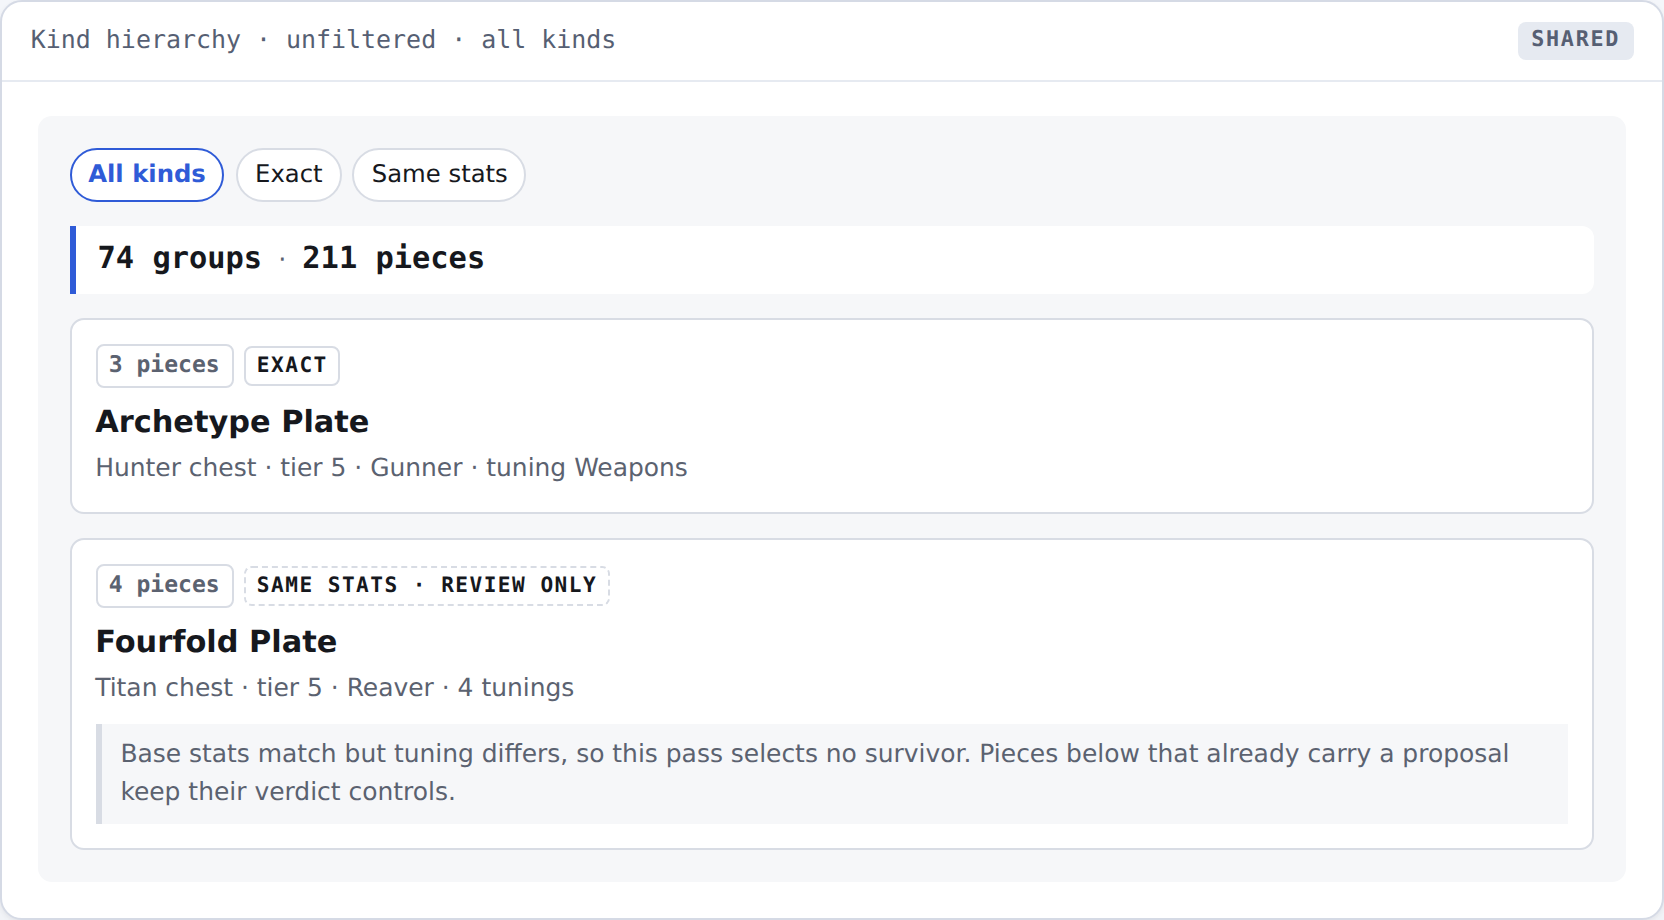
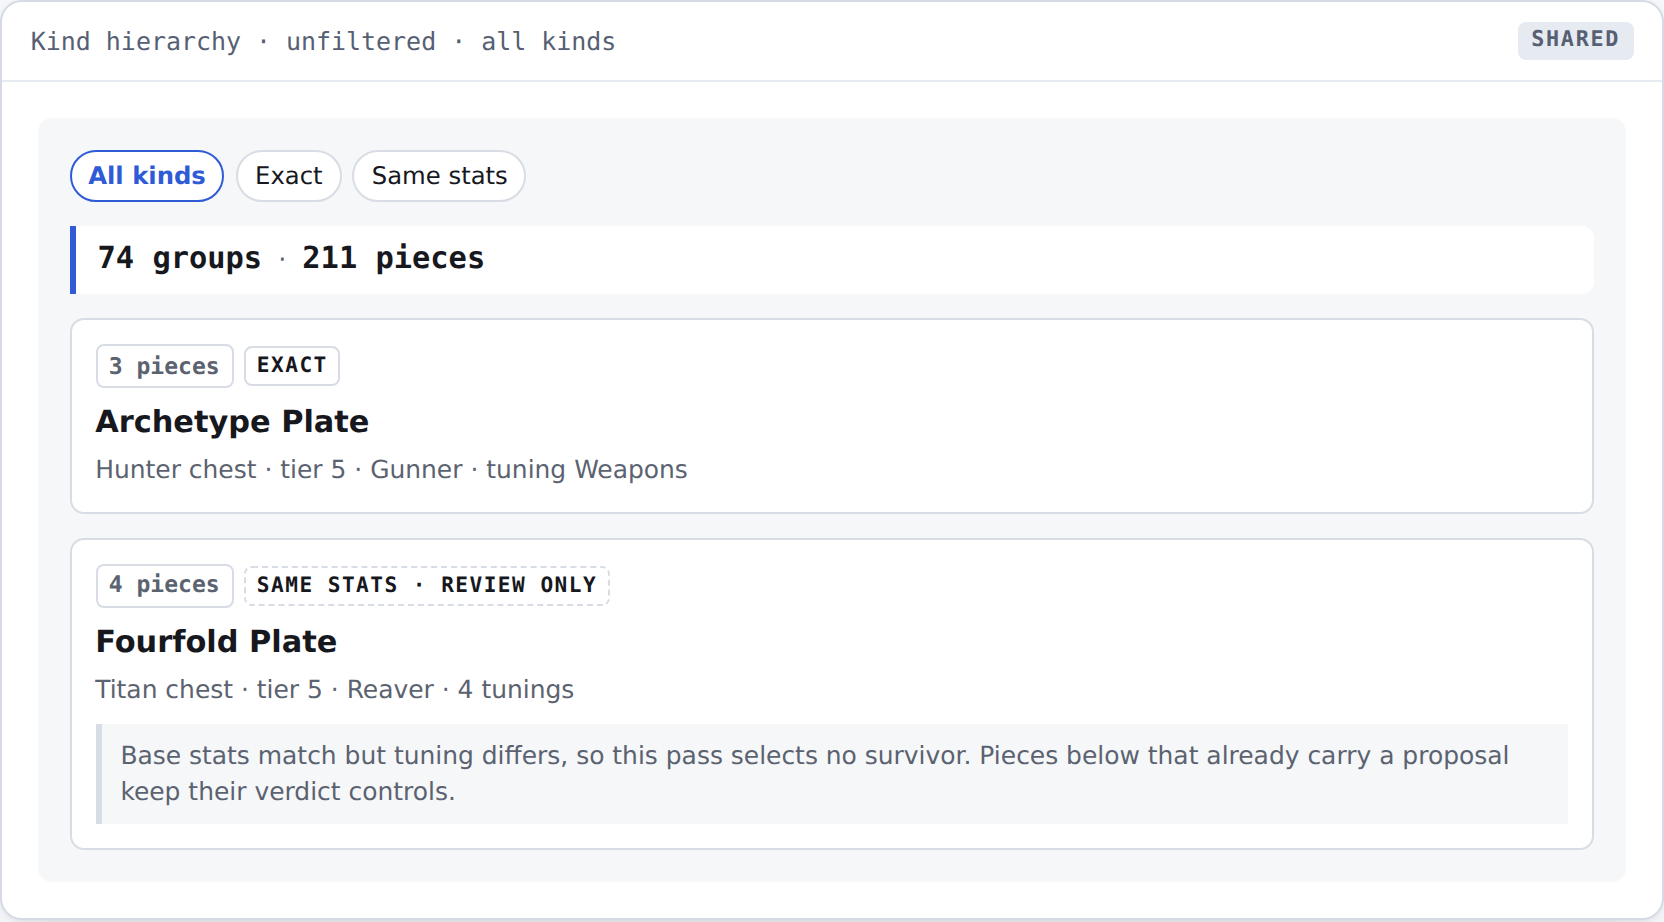
Measure the 390px claim instead of asserting it
The comparison table scored "fits 390px" as a win for Alternative B on
the reasoning that tiles and chips stack, while .vc carried a 30rem
minimum width, so no specimen could render below 480px at all -- the
artifact could not demonstrate its own claim.

Added specimens constrained to exactly 390px and measured them. The
result reverses the row: neither treatment overflows, and A is the more
compact, a 235px block against B's 358px, because stacking B's tile row
costs 178px. The recommendation is unchanged and better supported, since
the hybrid adopts A's line and declines B's expanded tile row.

Alternative B's cost prose also described a specimen that was never
built. Rewritten against what is rendered: the duplication is pairs, not
three places.

diff --git a/docs/evidence/issue-113/count-treatments.html b/docs/evidence/issue-113/count-treatments.html
@@ -136,6 +136,7 @@ section{display:flex;flex-direction:column;gap:1.1rem}
 .vc .scope .of{color:var(--vmuted);font-size:.8rem}
 .vc .pieces{font:600 .72rem/1 ui-monospace,monospace;border:1px solid var(--vline);
   border-radius:4px;padding:.35em .5em;color:var(--vmuted)}
+.vc.narrow{min-width:0;width:390px;max-width:100%}
 .vc .rule-note{font-size:.72rem;color:var(--vmuted);font-style:italic}
 
 /* ---- comparison table ---- */
@@ -264,7 +265,7 @@ a{color:var(--brand)}
   </figure>
 
   <p class="prose"><strong>Why it works.</strong> One place answers every counting question, and it is the last thing read before the list. Both denominators are unfiltered totals, so the reader always knows what they are not seeing. The tile row becomes homogeneous — every remaining tile counts proposals.</p>
-  <p class="prose"><strong>What it costs.</strong> Scroll past the line and scope is gone; on a long list the reader re-scrolls to check. It also puts four numbers in one sentence, which is dense at 390px.</p>
+  <p class="prose"><strong>What it costs.</strong> Scroll past the line and scope is gone; on a long list the reader re-scrolls to check. It also puts four numbers in one sentence, which wraps to three lines at 390px — measured at 61px tall, and the cheaper of the two narrow costs.</p>
 </section>
 
 <!-- ============ B ============ -->
@@ -301,8 +302,8 @@ a{color:var(--brand)}
     </div>
   </figure>
 
-  <p class="prose"><strong>Why it works.</strong> Scope is local, so it survives scrolling — the piece count sits on the group you are actually reading. The chips answer “how many of each kind” without clicking through. Nothing needs re-reading after a scroll.</p>
-  <p class="prose"><strong>What it costs.</strong> The same numbers appear in three places and must agree; every one is a drift risk. Nothing answers “how big is this review” in one glance, and the tile row still asks the reader to notice that two tiles count groups and two count proposals.</p>
+  <p class="prose"><strong>Why it works.</strong> Scope is local, so it survives scrolling — the piece count sits on the group you are actually reading. The chips answer “how many of each kind” without clicking through. Nothing needs re-reading after a scroll. Note the narrow cost, measured below: the tile row stacks rather than overflowing, but stacking is not free — it takes 178px before any group is reached.</p>
+  <p class="prose"><strong>What it costs.</strong> Count information is spread across tiles, filter chips and group headers, and they must agree: <code>12</code> appears in both the <code>Groups</code> tile and the <code>Exact</code> chip, <code>74</code> in both the tile and the <code>All kinds</code> chip. Each pair is a drift risk. Nothing answers “how big is this review” in one glance, and the tile row mixes four different nouns — groups, pieces, proposals, reviewed — at equal weight, which is a milder version of the problem being fixed.</p>
 </section>
 
 <!-- ============ BOTH KINDS ============ -->
@@ -347,6 +348,64 @@ a{color:var(--brand)}
   </figure>
 </section>
 
+<!-- ============ NARROW ============ -->
+<section>
+  <div class="sec-head">
+    <span class="eyebrow">Measured</span>
+    <h2>Both treatments at 390px</h2>
+  </div>
+  <p class="prose">The narrow comparison below is <strong>measured on these specimens</strong>, not reasoned about. Each is constrained to exactly 390px — the width the browser checklist verifies at — and the figures in the comparison table come from rendering them.</p>
+
+  <figure class="spec">
+    <figcaption><span>Alternative A at 390px</span><span class="badge aa">A</span></figcaption>
+    <div class="stage">
+      <div class="vc narrow" id="narrow-a">
+        <div class="chips">
+          <span class="chip" aria-pressed="false">All kinds</span>
+          <span class="chip" aria-pressed="true">Exact</span>
+          <span class="chip" aria-pressed="false">Same stats</span>
+        </div>
+        <div class="scope">
+          <span class="big">12 of 74 groups</span>
+          <span class="of">·</span>
+          <span class="big">38 of 211 pieces</span>
+          <span class="of">— filtered to exact duplicates</span>
+        </div>
+        <div class="grp">
+          <span class="kind">Exact</span>
+          <h4>Archetype Plate</h4>
+          <p class="gsub">3 pieces · Hunter chest · tier 5 · Gunner</p>
+        </div>
+      </div>
+    </div>
+  </figure>
+
+  <figure class="spec">
+    <figcaption><span>Alternative B at 390px</span><span class="badge bb">B</span></figcaption>
+    <div class="stage">
+      <div class="vc narrow" id="narrow-b">
+        <div class="tiles">
+          <div class="tile"><span class="lab">Groups</span><span class="val">74</span><span class="sub">12 shown</span></div>
+          <div class="tile"><span class="lab">Pieces</span><span class="val">211</span><span class="sub">38 shown</span></div>
+          <div class="tile"><span class="lab">Proposals</span><span class="val">394</span><span class="sub">90 junk, 304 review</span></div>
+          <div class="tile"><span class="lab">Reviewed</span><span class="val">9</span><span class="sub">6 approved, 3 vetoed</span></div>
+        </div>
+        <div class="chips">
+          <span class="chip" aria-pressed="false">All kinds · 74 groups</span>
+          <span class="chip" aria-pressed="true">Exact · 12 groups</span>
+        </div>
+        <div class="grp">
+          <div class="chips" style="margin-bottom:.4rem">
+            <span class="pieces">3 pieces</span><span class="kind">Exact</span>
+          </div>
+          <h4>Archetype Plate</h4>
+          <p class="gsub">Hunter chest · tier 5 · Gunner</p>
+        </div>
+      </div>
+    </div>
+  </figure>
+</section>
+
 <!-- ============ COMPARISON ============ -->
 <section>
   <div class="sec-head">
@@ -361,7 +420,7 @@ a{color:var(--brand)}
         <tr><td>Survives scrolling a long list</td><td class="lose">Scope scrolls away</td><td class="win">Piece count is on every group</td></tr>
         <tr><td>Filtered vs unfiltered legible</td><td class="win">Explicit <code>N of M</code>, both nouns</td><td>Chips give per-kind totals; the “shown” sub-caption carries it</td></tr>
         <tr><td>Places the same number is stated</td><td class="win">One</td><td class="lose">Three — drift risk</td></tr>
-        <tr><td>Fits 390px</td><td class="lose">Four numbers in one sentence wraps to 3 lines</td><td class="win">Tiles and chips already stack</td></tr>
+        <tr><td>Fits 390px <em>(measured)</em></td><td class="win">No overflow. Scope line wraps to 3 lines (61px); block totals <strong>235px</strong></td><td class="lose">No overflow, but the tile row stacks to 178px; block totals <strong>358px</strong></td></tr>
         <tr><td>Exact vs same-stat without colour</td><td>Text chip, dashed border</td><td class="win">Text chip, dashed border, plus the review-only banner</td></tr>
         <tr><td>Implies no cleanup decision</td><td>Neutral</td><td class="win">Banner states it explicitly</td></tr>
         <tr><td>Accessible semantics</td><td class="win">One live region to announce on filter change</td><td class="lose">Several regions, or none</td></tr>
@@ -378,7 +437,8 @@ a{color:var(--brand)}
   </div>
   <div class="verdict">
     <h2>A hybrid, weighted toward B</h2>
-    <p>The comparison splits cleanly: <strong>A wins on stating scope once and correctly</strong>, <strong>B wins on keeping it available while scrolling</strong>. They are not mutually exclusive, and the costs are not symmetric — A's weakness is a scroll away, B's weakness is three numbers that must agree forever.</p>
+    <p>The comparison splits cleanly: <strong>A wins on stating scope once and correctly</strong>, <strong>B wins on keeping it available while scrolling</strong>. They are not mutually exclusive, and the costs are not symmetric — A's weakness is a scroll away, B's weakness is pairs of numbers that must agree forever.</p>
+    <p><strong>One correction from measuring.</strong> This page originally scored the 390px row as a win for B, on the reasoning that tiles and chips stack. Measured, neither treatment overflows and <em>A is the more compact</em> — 235px against B's 358px, because stacking B's tile row costs 178px. That does not change the recommendation; it strengthens it, since the hybrid keeps A's line and specifically declines B's expanded tile row.</p>
     <p>So: adopt <strong>A's single scoped line</strong> as the one authoritative statement, and <strong>B's per-group piece count and review-only banner</strong> as local reinforcement that never restates a total. The tile row keeps only proposal-shaped counts, and <code>SHOWN</code> leaves this surface entirely.</p>
   </div>
 

diff --git a/WORKLOG.md b/WORKLOG.md
@@ -50,6 +50,30 @@ surprises the next agent should know about.
   theming, and zero-base-stat suppression. An earlier code-only reading had
   wrongly flagged all four; rendering corrected it.
 
+## 2026-09-03 — #113 third review round: measured the narrow claim
+
+- **A comparison row asserted something the specimens could not show, and the
+  measurement reversed it.** The table scored "fits 390px" as a win for B on the
+  reasoning that tiles and chips stack, while `.vc` carried `min-width:30rem`, so
+  no specimen could render below 480px at all. Added specimens constrained to
+  exactly 390px and measured: neither treatment overflows, and **A is the more
+  compact** — a 235px block against B's 358px, because stacking B's tile row
+  costs 178px. The recommendation is unchanged and better supported, since the
+  hybrid takes A's line and declines B's expanded tile row.
+- Alternative B's "what it costs" prose described a specimen that was never
+  built — "the same numbers appear in three places", "two tiles count groups and
+  two count proposals" — where the specimen has one Groups, one Pieces, one
+  Proposals and one Reviewed tile. Rewritten against what is actually rendered:
+  the real duplication is pairs (`12` in tile and chip, `74` in tile and chip).
+- #119 was internally contradictory: settled item 5 still carried the original
+  conditional-banner rule while item 12 carried the corrected two-part rule.
+  Item 5 now defers to item 12.
+- **Worth knowing:** the recurring failure across three review rounds was not the
+  design, which has not moved. It was claims outrunning evidence — artifacts
+  described but not committed, prose describing a specimen that was not built,
+  and a responsive claim asserted rather than measured. Where a document argues
+  from evidence, every comparison row needs to name whether it was measured.
+
 ## 2026-09-02 — #113 second review round: specimen coherence
 
 - **The Exact-filtered specimens listed a same-stat group.** Both alternatives

diff --git a/docs/duplicate-review-count-design.md b/docs/duplicate-review-count-design.md
@@ -67,7 +67,8 @@ piece count.
 - **Wins on** answering "how big is this review" in one place; one live region
   to announce on filter change; the tile row becomes homogeneous.
 - **Costs** scope that scrolls away on a long list, and four numbers in one
-  sentence, which wraps to three lines at 390px.
+  sentence, which wraps to three lines at 390px — measured at 61px, and the
+  cheaper of the two narrow costs.
 
 ### B — every count carries its own noun
 
@@ -77,14 +78,23 @@ totals. Each group header leads with a piece count.
 
 - **Wins on** surviving a scroll — the piece count is on the group being read;
   per-kind totals without clicking through.
-- **Costs** the same number stated in three places that must agree forever, and
-  no single answer to the size of the review.
+- **Costs** pairs of numbers that must agree forever — `12` in both the `Groups`
+  tile and the `Exact` chip, `74` in both the tile and the `All kinds` chip — and
+  no single answer to the size of the review. At 390px its tile row stacks rather
+  than overflowing, but stacking costs 178px before the first group.
 
 ## 3. Decision
 
 **A hybrid, weighted toward B.** The costs are not symmetric: A's weakness is a
-scroll away, B's weakness is a permanent consistency obligation across three
+scroll away, B's weakness is a permanent consistency obligation across paired
 call sites.
+
+**One correction from measuring.** The comparison originally scored the 390px
+row as a win for B, reasoning that tiles and chips stack. Rendered at exactly
+390px, neither treatment overflows and **A is the more compact** — a 235px block
+against B's 358px, because stacking B's tile row costs 178px. This does not
+change the decision; it strengthens it, since the hybrid adopts A's line and
+specifically declines B's expanded tile row.
 
 Adopt **A's single scoped line** as the one authoritative statement, and **B's
 per-group piece count and review-only banner** as local reinforcement that never

diff --git a/docs/evidence/issue-113/README.md b/docs/evidence/issue-113/README.md
@@ -33,6 +33,10 @@ font stacks, so the stills above match what it renders.
 
 The two alternative stills are both shown filtered to Exact, so each lists only
 exact groups; the kind hierarchy is shown once, unfiltered, in the third.
+`narrow-390-alternative-a.png` and `narrow-390-alternative-b.png` are the two
+treatments constrained to exactly 390px, and the comparison's narrow row is
+measured from them rather than reasoned about: neither overflows, A totals 235px,
+B totals 358px because its tile row stacks to 178px.
 
 The mixed export is the two committed fixtures concatenated: one exact
 duplicate group of three members, one same-stat group of four. The hostile
